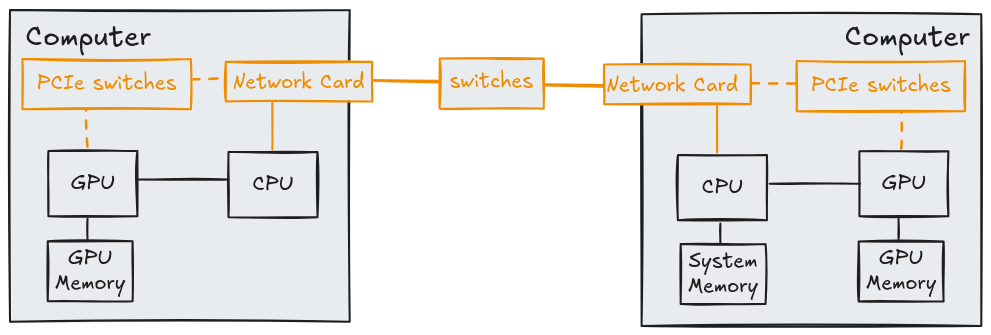
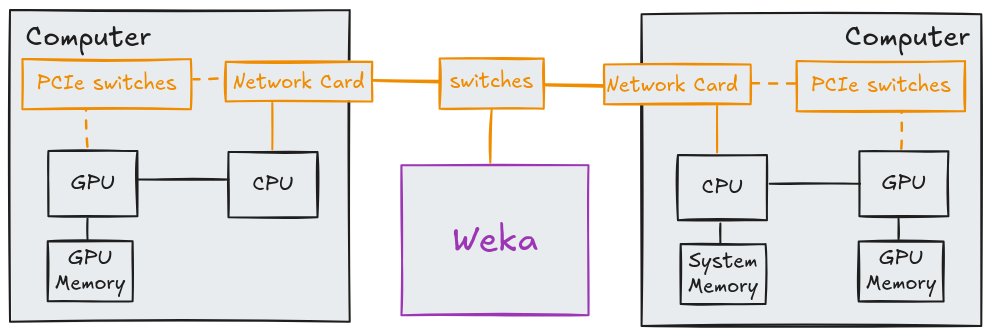
add weka to picture

diff --git a/docs/day1/llm_hardware.md b/docs/day1/llm_hardware.md
@@ -310,9 +310,9 @@ if you want to optimize you inference tasks for real.
 
 ![](./figures/gpu_direct.png){ style="height:200px" }
 
-- Fast storage: [WEKA file system];
 - Infiniband: 100Gbit (A100 nodes);
 - Ethernet: 25Gbit (most other nodes);
+- Fast storage: [WEKA file system].
 
 [WEKA file system]: https://docs.weka.io/weka-system-overview/about/weka-system-functionality-features
 
